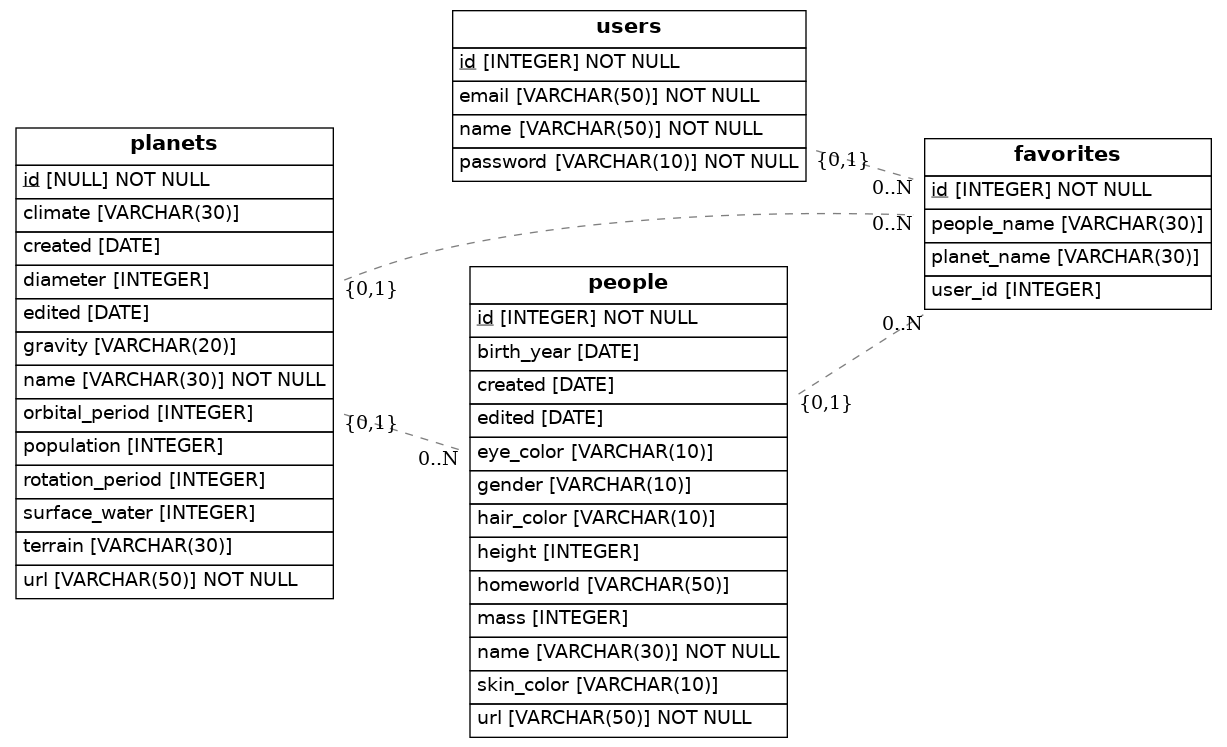
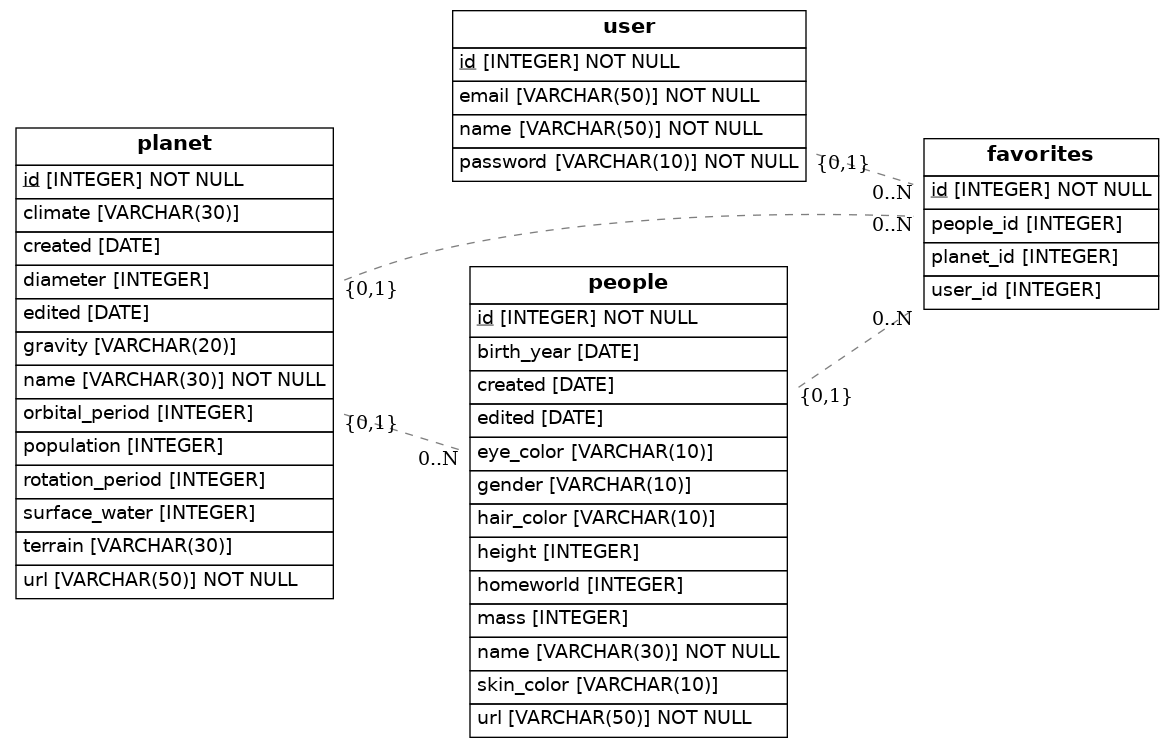
corregido

diff --git a/src/models.py b/src/models.py
@@ -7,8 +7,8 @@ from eralchemy2 import render_er
 
 Base = declarative_base()
 
-class Users (Base):
-    __tablename__ = 'users'
+class User (Base):
+    __tablename__ = 'user'
     id = Column(Integer, primary_key=True)
     name = Column(String(50), nullable=False, unique=True)
     email = Column(String(50), nullable=False, unique=True)
@@ -17,9 +17,9 @@ class Users (Base):
     def to_dict(self):
         return {}
 
-class Planets (Base):
-    __tablename__ = 'planets'
-    id = Column (primary_key=True, nullable=False) 
+class Planet (Base):
+    __tablename__ = 'planet'
+    id = Column (Integer, primary_key=True, nullable=False) 
     name = Column (String(30), unique=True, nullable=False)
     url = Column(String(50), unique= True, nullable=False)
     diameter= Column(Integer)
@@ -43,7 +43,7 @@ class People (Base):
     name = Column (String(30), unique=True, nullable=False)
     url= Column (String(50), unique=True, nullable=False)     
     height= Column (Integer)
-    mass = Column(Integer)
+    mass = Column (Integer)
     hair_color = Column (String(10))
     skin_color = Column (String(10))
     eye_color = Column (String(10))
@@ -51,7 +51,7 @@ class People (Base):
     gender = Column (String(10))
     created = Column (Date)
     edited = Column (Date)
-    homeworld = Column (String(50), ForeignKey(Planets.url))
+    homeworld = Column (Integer, ForeignKey(Planet.id))
 
     def to_dict(self):
         return {}
@@ -59,9 +59,9 @@ class People (Base):
 class Favorites(Base): 
     __tablename__= 'favorites'
     id =Column (Integer, primary_key=True)
-    user_id = Column (Integer, ForeignKey (Users.id))
-    planet_name = Column(String(30), ForeignKey(Planets.name))
-    people_name = Column(String(30), ForeignKey(People.name))
+    user_id = Column (Integer, ForeignKey (User.id))
+    planet_id = Column(Integer, ForeignKey(Planet.id))
+    people_id = Column(Integer, ForeignKey(People.id))
 
     def to_dict(self):
         return {}
